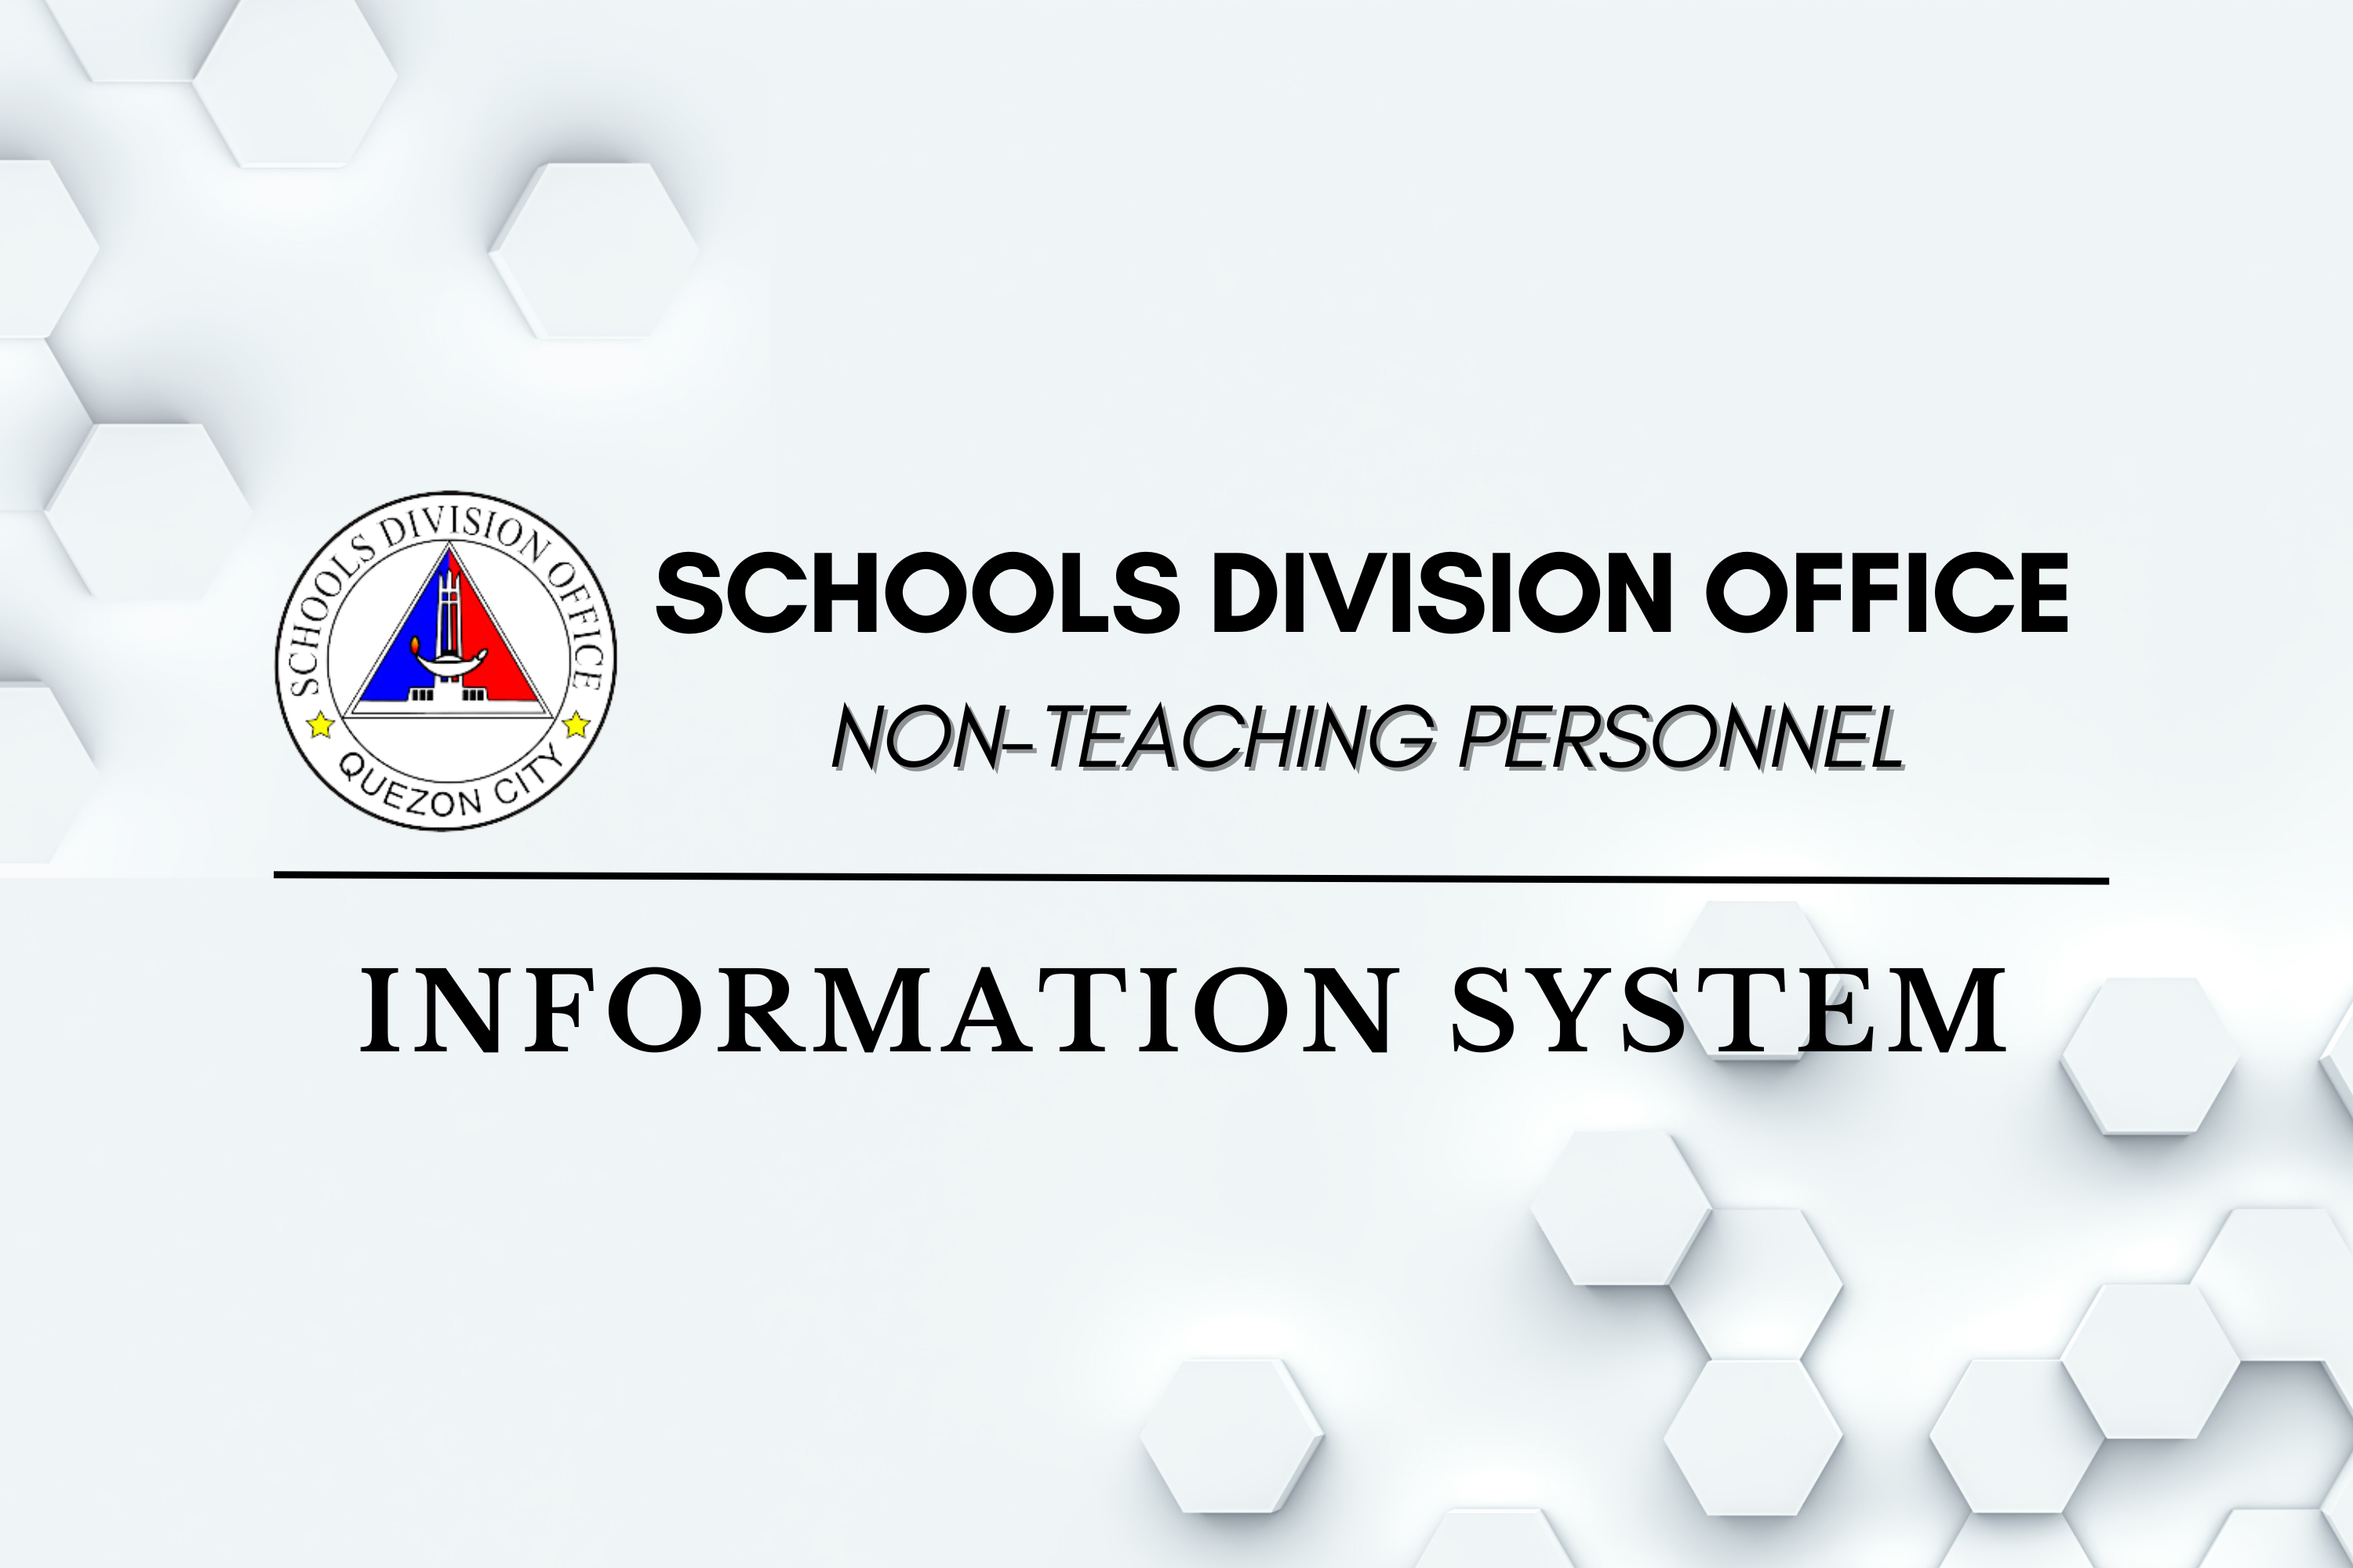
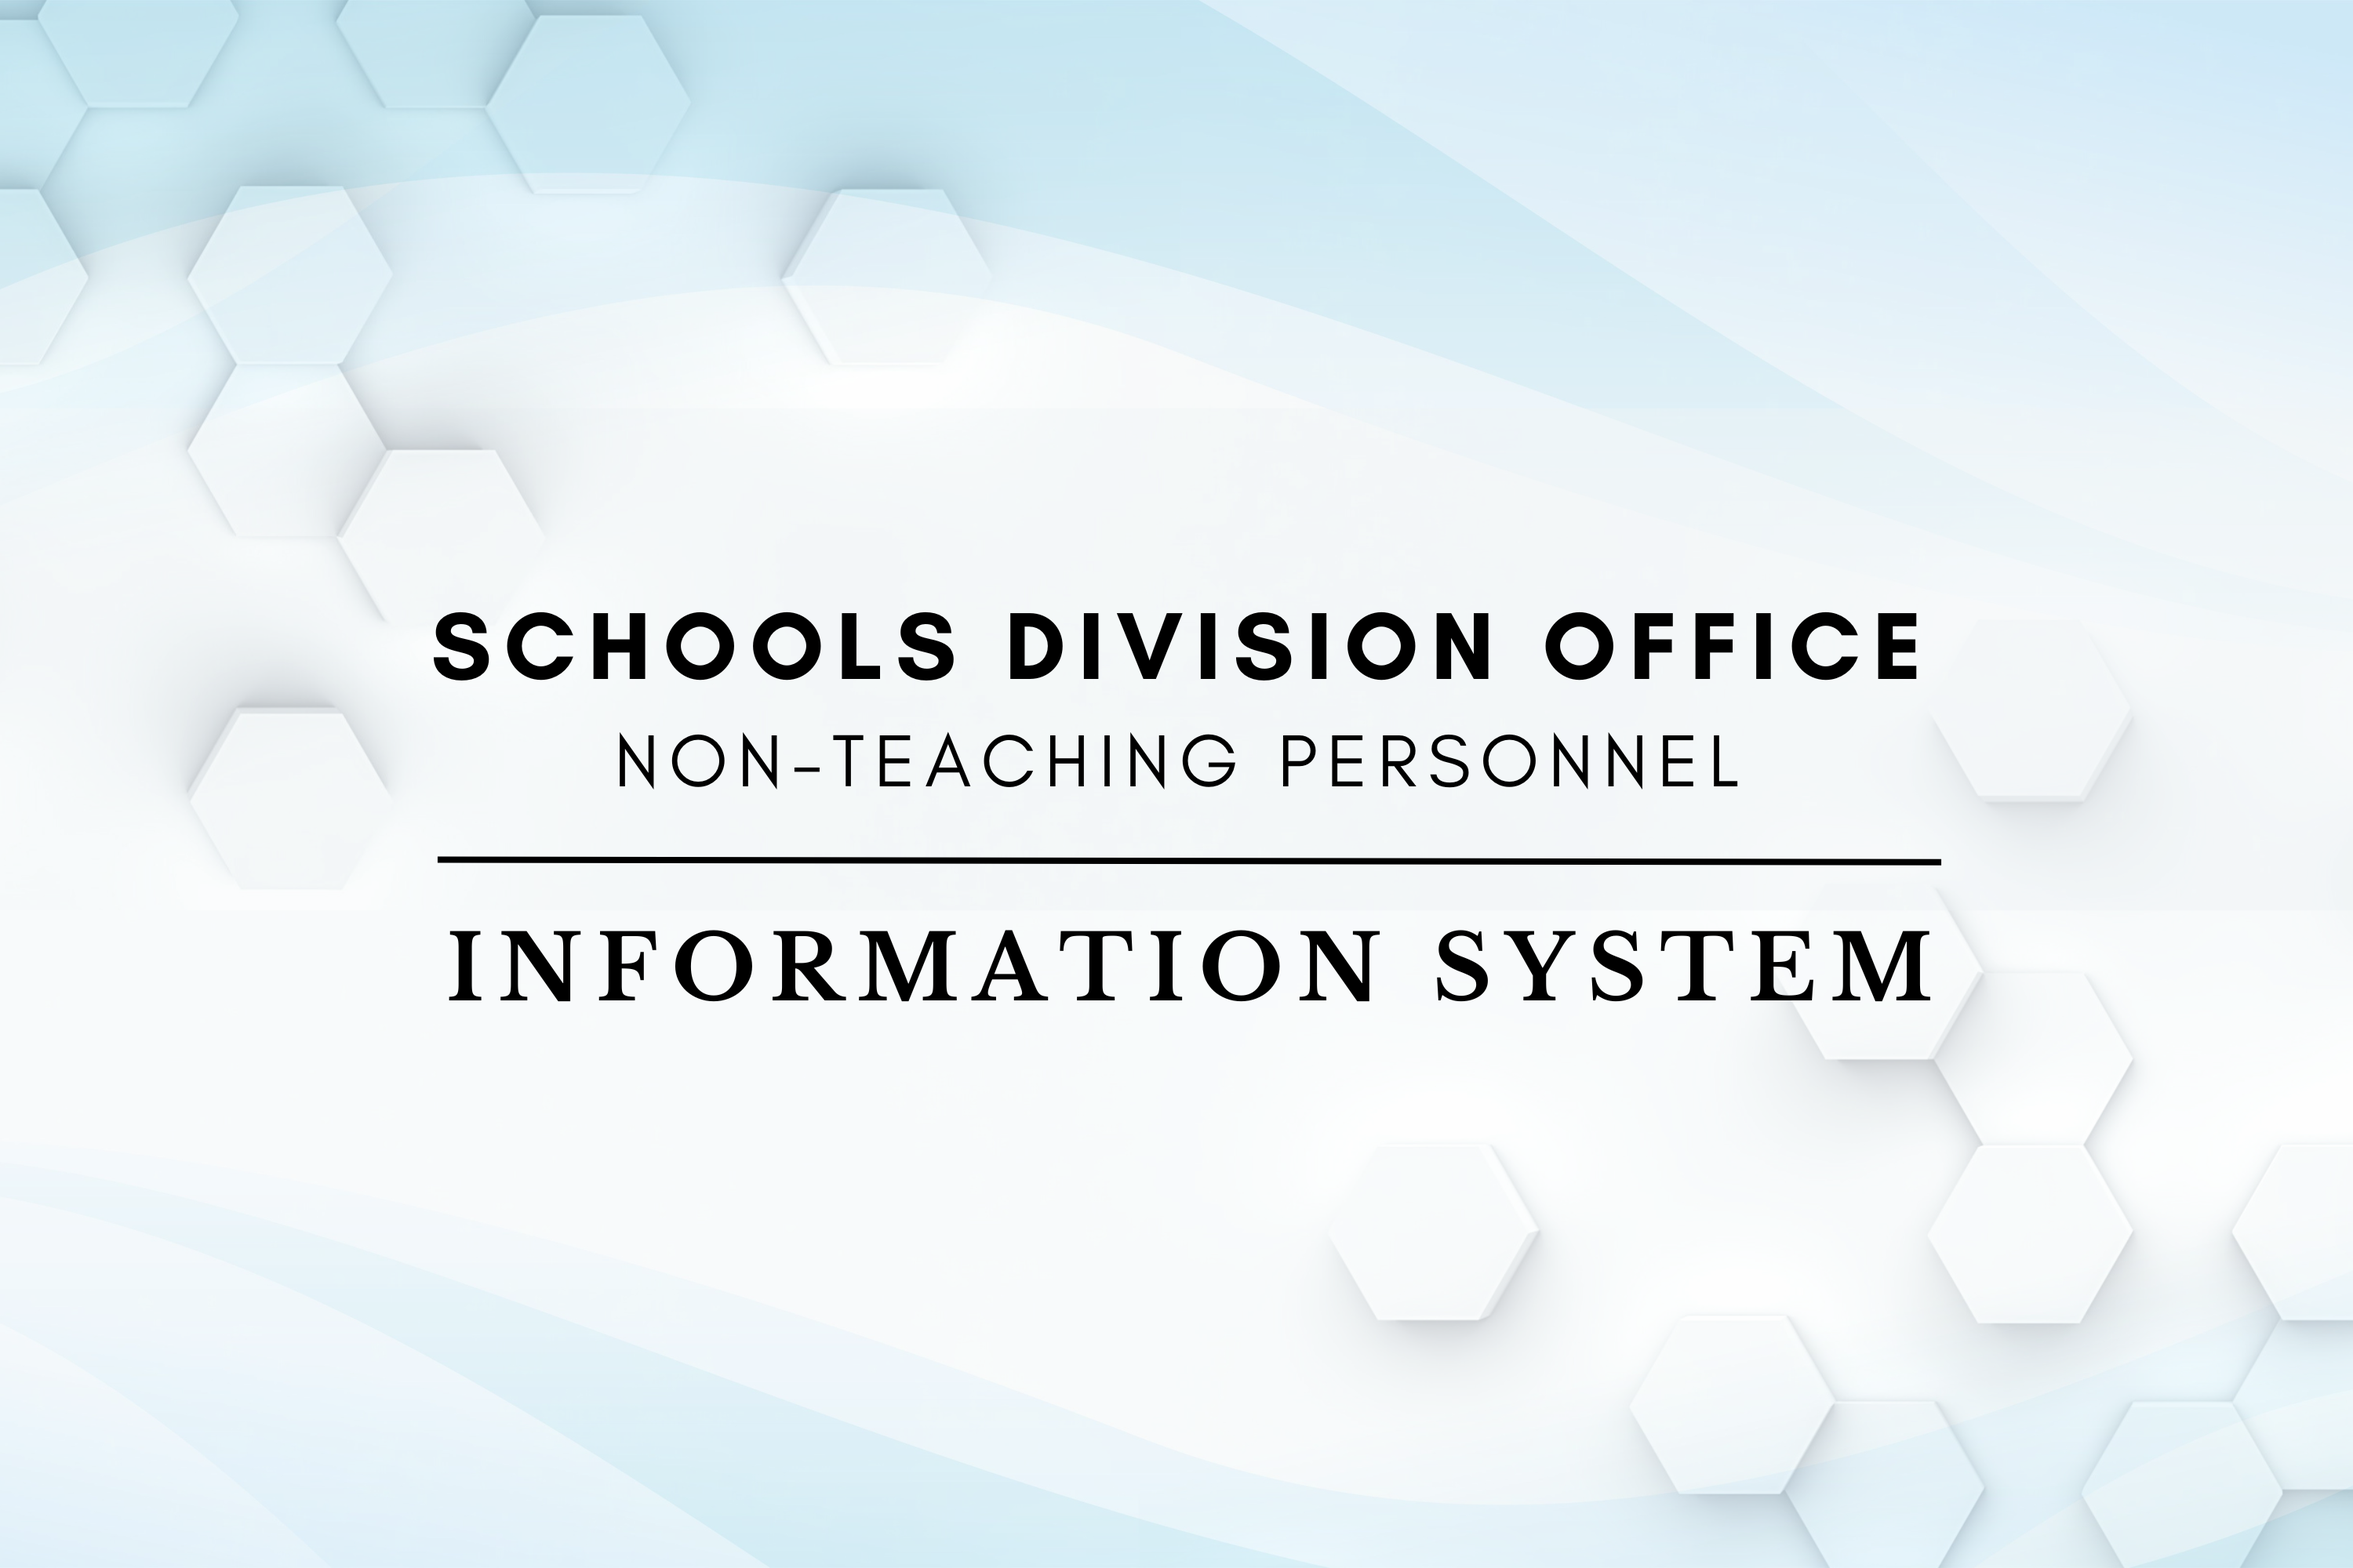
updated dashboard

diff --git a/NTPInventory/public/css/FrontMain.css b/NTPInventory/public/css/FrontMain.css
@@ -507,7 +507,6 @@ section{
 #uploading-btn{
     background-image: linear-gradient(to right, #9b5501, #ffae19, #af6000);
 	height: 35px;
-
 	max-width: 300px;
     color: aliceblue;
     display: flex;
@@ -658,7 +657,7 @@ section{
 	position: relative;
 	width: 100%;
 	height: 50ex;
-	background: url('/public/Asset/welcome_pic.png') ;
+	background: url('/Asset/SAS.jpg');
 	background-size: cover;
 	background-position: center;
 }
@@ -670,7 +669,7 @@ section{
     left: 0;
     top: 0;
 	/*background: linear-gradient(275deg,rgba(10,10,10,0) 0,rgba(10,10,10,.8) 120%);*/
-    /* background: linear-gradient(275deg,rgba(0, 0, 0, 0) 0,rgba(105, 105, 105, 0.8) 120%); */
+    background: linear-gradient(275deg,rgba(0, 0, 0, 0) 0,rgba(105, 105, 105, 0.8) 120%);
 }
 .specs{
 	position: relative;
@@ -804,7 +803,7 @@ section{
 	position: relative;
 	width: 100%;
 	height: 100ex;
-	background: url('/Asset/welcome_pic.png') ;
+	background: url('/Asset/welcome_pic.png');
 	background-size: cover;
 	background-position: center;
 	display: grid;
@@ -854,7 +853,7 @@ section{
 }
 header.sticky{
 	background: var(--bg-color); /* header color*/
-	padding: 10px 18%;
+	padding: 10px 15%;
 	box-shadow: rgba(33,35,38, 0.1) 0px 10px 10px -10px;
 }
 
@@ -883,28 +882,41 @@ header.sticky{
 	color: grey;
 }
 
-.row:after {
-	content: "";
+.row{
+	/* content: "";
 	display: table;
-	clear: both;
-	/* width: 100%;
-	border: 1px solid red;
-	grid-template-columns: repeat(auto-fit, minmax(20%, 50%));
+	clear: both; */
+	display: grid;
+	grid-template-columns: repeat(auto-fit, minmax(750px, auto));
 	grid-gap: 2rem;
 	align-items: center;
 	text-align: center;
-	margin-top: 5rem; */
+	margin-top: 5rem;
 }
 
-.column {
-	align-items: center;
-	text-align: center;
-	float: left;
-	width: 50%;
-}
+@media screen and (max-width: 1600px) {
+	.row{
+		display: grid;
+		grid-template-columns: 1fr 1fr;
+	}
 
-@media screen and (max-width: 600px) {
+	.row:after {
+		content: "";
+		/* display: table; */
+		clear: both;
+		/* width: 100%;
+		border: 1px solid red;
+		grid-template-columns: repeat(auto-fit, minmax(20%, 50%));
+		grid-gap: 2rem;
+		align-items: center;
+		text-align: center;
+		margin-top: 5rem; */
+	}
+	
 	.column {
+		align-items: center;
+		text-align: center;
+		float: left;
 		width: 100%;
 	}
 }
@@ -2290,9 +2302,9 @@ background-color: #c8c8c8;
 }
 
 .list h5{
-	font-size: 90px;
+	font-size: 60px;
 	color: var(--bg-color);
-	margin-top: 50px;
+	margin-top: 30px;
 	/* text-align: center; */
 	position: relative;
 }
@@ -2776,6 +2788,11 @@ hr{
 
 @media (max-width: 1040px){
 
+	.row{
+		display: grid;
+		grid-template-columns: 1fr;
+	}
+
 	.sheishi{
 		grid-template-columns: 1fr 1fr;
 	
@@ -3033,7 +3050,7 @@ hr{
 
 
     .home{
-        background: url('/public/Asset/welcome_pic.png');
+        background: url('/Asset/welcome_pic.png');
         position: relative;
 	    background-size: cover;
 	    background-position: center
@@ -3199,7 +3216,6 @@ hr{
 		grid-template-columns: 1fr 1fr;
 		grid-gap: 2rem;
 		align-items: center;
-	
 	}
 
 	

diff --git a/NTPInventory/public/css/UserLogin.css b/NTPInventory/public/css/UserLogin.css
@@ -60,7 +60,7 @@ form{
 
 .login-content h2{
 	margin: 20px 0;
-	color: #01A4EC;
+	color: #0055d3;
 	text-transform: uppercase;
 	font-size: 2.9rem;
 }

diff --git a/NTPInventory/resources/views/Layout/CustomerApp.blade.php b/NTPInventory/resources/views/Layout/CustomerApp.blade.php
@@ -22,7 +22,7 @@
 	<header>
 		
 		<a href="{{Route('NTPDashBoard.index')}}" class="logo">
-			<img src="{{asset('Asset/sdo_logo.png')}}" alt="Logo">NTP-IS
+			<img src="{{asset('Asset/sdo_logo.png')}}" alt="Logo">SDOQC NTP-IS
 		</a>
 		<div class="bx bx-menu" id="menu-icon">   </div>
 		
@@ -49,8 +49,8 @@
 		<div class="footer">
 			<div class="main">
 				
-				 <div class="list">
-					<h5 class="logo"> DSP+ </h5>
+				<div class="list">
+					<h5 class="logo">SDOQC NTP</h5>
 				</div>
 
 				<div class="list">
@@ -58,26 +58,24 @@
 					<ul>
 						<li><a href="">About us</a></li>
 						<li><a href="">Terms & Conditions</a></li>
-						<li><a href="">FAQS</a></li>										
-						<li><a href="">Equipment</a></li>
+						<li><a href="">FAQS</a></li>
 					</ul>
 				</div>
 
 				<div class="list">
 					<h4>Contact Info</h4>
 					<ul>
-						<li><a href="#">8 Mangachapoy cor </a></li>
-						<li><a href="#">Narig Streets</a></li>
-						<li><a href="#"> Veterans Village </a></li>
-						<li><a href="#">Project 7</a></li>
-						<li><a href="#">digitalprinting@designplusph.com</a></li>
+						<li><a href="#">Nueva Ecija St.</a></li>
+						<li><a href="#">Bago Bantay</a></li>
+						<li><a href="#">Quezon City</a></li>
+						<li><a href="#">human.resource@depedqc.ph</a></li>
 					</ul>
 				</div>
 
 				<div class="list">
 					<h4>Connect</h4>
 					<div class="social">
-						<a href="https://web.facebook.com/designplusonline" target=”_blank”><i class='bx bxl-facebook' ></i></a>
+						<a href="https://www.facebook.com/SDOQC-HR-Non-Teaching-101158962545643" target=”_blank”><i class='bx bxl-facebook' ></i></a>
 					</div>
 				</div>
 				
@@ -87,7 +85,7 @@
 		<hr>
 		
 		<div class="end-text">
-			<p>Copyright ©2022 All rights reserved | By Design Plus and IT Student</p>
+			<p>Copyright ©{{now()->format('Y')}} All rights reserved | By Allen Dex Cutie Pie Farol</p>
 		</div>
 	</div>
 	

diff --git a/NTPInventory/resources/views/Applicant/ApplicantTBL.blade.php b/NTPInventory/resources/views/Applicant/ApplicantTBL.blade.php
@@ -9,7 +9,7 @@
 
      
         <div class="specs">
-            <a href=""> ADMIN </a> >>  <a href=""> APPLICANT </a> 
+            <a href=""> ADMIN </a> >> <a href=""> APPLICANT </a> 
         </div>
 
         <div class="specsxa">
